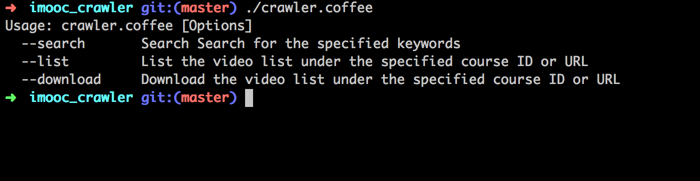
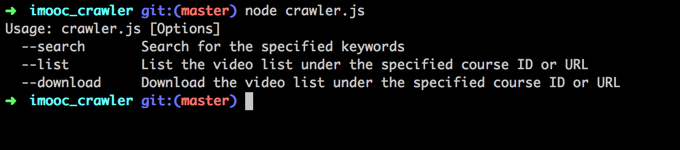
[UPDATE] Update screenshot

Changed region(s): [[0.0, 0.0, 0.9265, 0.5867], [0.0, 0.6133, 0.3706, 0.7467]]

diff --git a/README.md b/README.md
@@ -10,8 +10,11 @@ $ node crawler.js
         --download  Download the video list under the specified course ID or URL
 
 ## Screenshot
-![running.png](https://github.com/monkeym4ster/imooc_crawler/raw/master/screenshot/running.png)
-![results.png](https://github.com/monkeym4ster/imooc_crawler/raw/master/screenshot/results.png)
+![running](https://github.com/monkeym4ster/imooc_crawler/raw/master/screenshot/running.png)
+![search](https://github.com/monkeym4ster/imooc_crawler/raw/master/screenshot/search.png)
+![download](https://github.com/monkeym4ster/imooc_crawler/raw/master/screenshot/download.png)
+![videolist](https://github.com/monkeym4ster/imooc_crawler/raw/master/screenshot/video_list.png)
+![results](https://github.com/monkeym4ster/imooc_crawler/raw/master/screenshot/results.png)
 
 ## Installation
 
